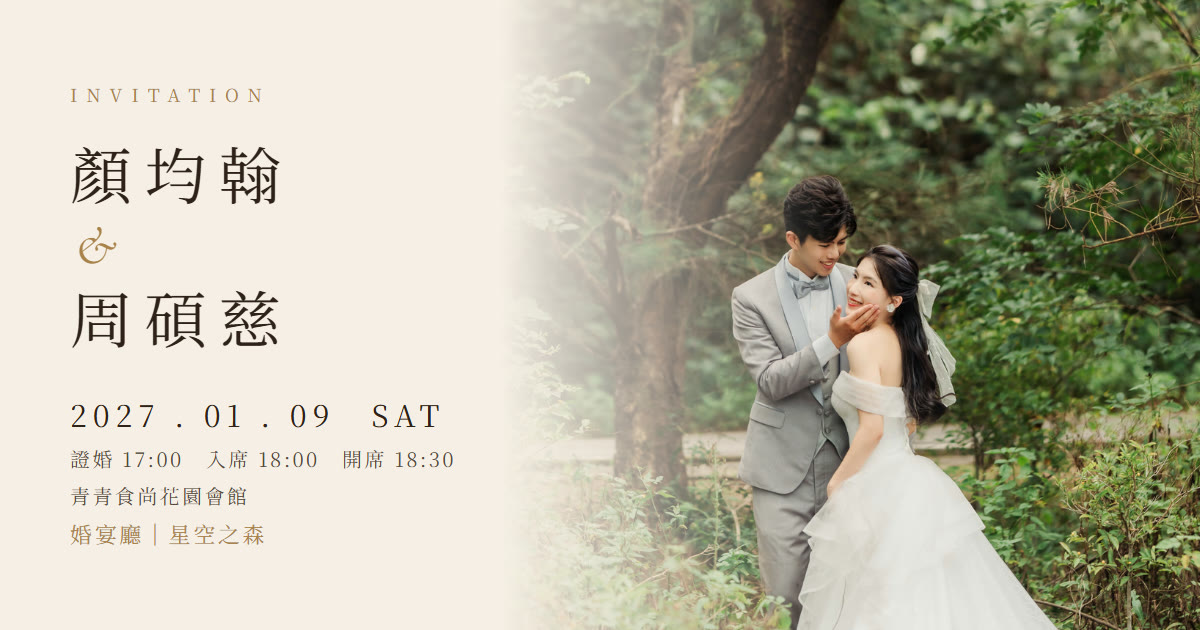
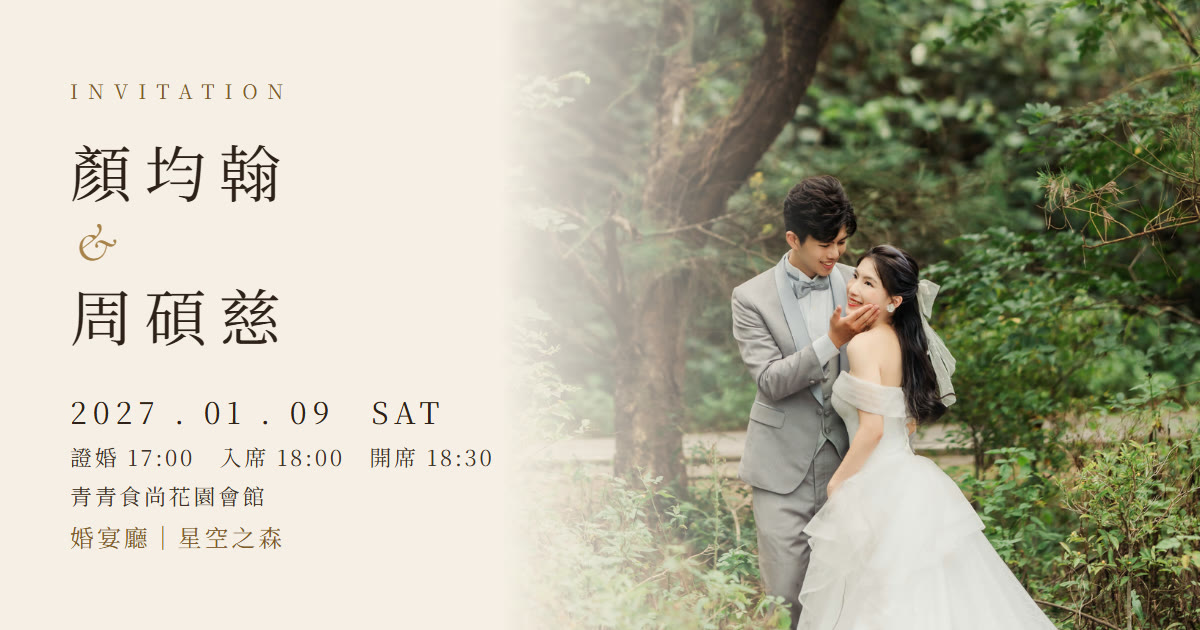
Improve legibility: deeper gold for text, regular weight, stronger opacity, slightly larger small text; darker hero caption gradient; re-render invite images

diff --git a/index.html b/index.html
@@ -22,13 +22,13 @@
 <link href="https://fonts.googleapis.com/css2?family=Cormorant+Garamond:ital,wght@0,400;1,400;1,500&family=Noto+Serif+TC:wght@300;400;500&display=swap" rel="stylesheet">
 <style>
 :root{
-  --bg:#F6EFE6; --ink:#2E2118; --gold:#A9824A; --line:rgba(46,33,24,.18); --soft:#EDE3D5;
+  --bg:#F6EFE6; --ink:#2E2118; --gold:#A9824A; --gold-d:#7F5A28; --line:rgba(46,33,24,.18); --soft:#EDE3D5;
   --serif:"Noto Serif TC","Songti TC","PMingLiU",serif;
   --script:"Cormorant Garamond","Gabriola",Georgia,serif;
 }
 *{box-sizing:border-box;margin:0;padding:0}
 html{scroll-behavior:smooth}
-body{background:var(--bg);color:var(--ink);font-family:var(--serif);font-weight:300;line-height:1.9;-webkit-font-smoothing:antialiased}
+body{background:var(--bg);color:var(--ink);font-family:var(--serif);font-weight:400;line-height:1.9;-webkit-font-smoothing:antialiased}
 .wrap{max-width:560px;margin:0 auto;background:var(--bg);overflow:hidden}
 .script{font-family:var(--script);font-style:italic;font-weight:400}
 
@@ -36,52 +36,52 @@ body{background:var(--bg);color:var(--ink);font-family:var(--serif);font-weight:
 .hero{position:relative;height:min(100svh,880px);min-height:660px;color:var(--ink)}
 .hero img{position:absolute;top:0;left:0;width:100%;height:76%;object-fit:cover;object-position:50% 40%;animation:slow 16s ease-out both}
 .hero::after{content:"";position:absolute;inset:0;background:linear-gradient(to bottom,rgba(246,239,230,0) 42%,rgba(246,239,230,.55) 60%,rgba(246,239,230,.92) 71%,var(--bg) 77%)}
-.hero::before{content:"";position:absolute;z-index:1;top:0;left:0;right:0;height:130px;background:linear-gradient(to bottom,rgba(20,14,8,.38),rgba(20,14,8,0))}
-.hero .top{position:absolute;z-index:2;top:0;left:0;right:0;padding:34px 24px 0;text-align:center;letter-spacing:.36em;font-size:12px;color:#fff;text-shadow:0 1px 10px rgba(0,0,0,.35)}
+.hero::before{content:"";position:absolute;z-index:1;top:0;left:0;right:0;height:150px;background:linear-gradient(to bottom,rgba(20,14,8,.55),rgba(20,14,8,0))}
+.hero .top{position:absolute;z-index:2;top:0;left:0;right:0;padding:34px 24px 0;text-align:center;letter-spacing:.36em;font-size:13px;color:#fff;text-shadow:0 1px 8px rgba(0,0,0,.5)}
 .hero .names{position:absolute;z-index:2;left:0;right:0;bottom:92px;text-align:center;padding:0 20px}
 .hero .names .n{font-size:34px;font-weight:400;letter-spacing:.22em}
 .hero .names .amp{font-size:30px;color:var(--gold);margin:2px 0 4px;display:block}
-.hero .names .d{margin-top:18px;font-size:13px;letter-spacing:.34em;color:var(--gold)}
-.hero .scroll{position:absolute;z-index:2;left:0;right:0;bottom:20px;text-align:center;font-size:13px;letter-spacing:.32em;color:var(--ink);opacity:.8;text-decoration:none}
+.hero .names .d{margin-top:18px;font-size:14px;letter-spacing:.34em;color:var(--gold-d)}
+.hero .scroll{position:absolute;z-index:2;left:0;right:0;bottom:20px;text-align:center;font-size:14px;letter-spacing:.32em;color:var(--ink);opacity:1;text-decoration:none}
 .hero .scroll .arr{display:block;margin:6px auto 0;width:14px;height:14px;border-right:1.5px solid var(--gold);border-bottom:1.5px solid var(--gold);transform:rotate(45deg);animation:bob 1.8s ease-in-out infinite}
 @keyframes slow{from{transform:scale(1.08)}to{transform:scale(1)}}
 @keyframes bob{0%,100%{transform:translateY(0) rotate(45deg);opacity:.5}50%{transform:translateY(7px) rotate(45deg);opacity:1}}
 
 section{padding:68px 28px;text-align:center}
-.eyebrow{font-size:11px;letter-spacing:.42em;color:var(--gold);margin-bottom:14px}
+.eyebrow{font-size:13px;letter-spacing:.42em;color:var(--gold-d);margin-bottom:14px}
 h2{font-size:30px;font-family:var(--script);font-style:italic;font-weight:400;letter-spacing:.02em;line-height:1.25;margin-bottom:22px}
-p{font-size:15px;letter-spacing:.06em}
+p{font-size:16px;letter-spacing:.06em}
 .rule{width:44px;height:1px;background:var(--gold);margin:26px auto;opacity:.7}
 
 /* greeting */
 .greet{font-size:17px;letter-spacing:.14em;margin-bottom:22px}
 .story p+p{margin-top:14px}
-.hl{color:var(--gold)}
+.hl{color:var(--gold-d)}
 
 /* details */
 .card{background:var(--soft);border-radius:2px;padding:34px 22px;margin-top:6px}
 .row{padding:14px 0}
 .row+.row{border-top:1px solid var(--line)}
-.row .k{font-size:11px;letter-spacing:.42em;color:var(--gold)}
+.row .k{font-size:13px;letter-spacing:.42em;color:var(--gold-d)}
 .row .v{font-size:19px;letter-spacing:.1em;font-weight:400;margin-top:2px}
-.hall{margin-top:6px;font-size:14px;color:var(--gold);letter-spacing:.12em}
+.hall{margin-top:6px;font-size:15px;color:var(--gold-d);letter-spacing:.12em}
 .hall b{font-size:22px;font-weight:500;letter-spacing:.24em;margin-left:.1em}
-.row .s{font-size:13px;letter-spacing:.06em;opacity:.78}
+.row .s{font-size:15px;letter-spacing:.06em;opacity:.92;text-wrap:balance}
 .btns{display:flex;gap:10px;justify-content:center;flex-wrap:wrap;margin-top:26px}
-.btn{display:inline-block;padding:12px 22px;border:1px solid var(--ink);color:var(--ink);text-decoration:none;font-size:13px;letter-spacing:.22em;background:transparent;font-family:var(--serif);cursor:pointer}
+.btn{display:inline-block;padding:12px 22px;border:1px solid var(--ink);color:var(--ink);text-decoration:none;font-size:15px;letter-spacing:.16em;background:transparent;font-family:var(--serif);cursor:pointer}
 .btn.fill{background:var(--ink);color:var(--bg)}
 .calpick{flex-basis:100%;display:grid;gap:10px;margin-top:10px;text-align:center}
 .calpick[hidden]{display:none}
-.calpick .cp-t{font-size:13px;letter-spacing:.3em;color:var(--gold)}
+.calpick .cp-t{font-size:14px;letter-spacing:.3em;color:var(--gold-d)}
 .calpick .btn{display:block;padding:14px 12px;line-height:1.5}
-.calpick .btn small{display:block;font-size:11px;letter-spacing:.12em;opacity:.8;margin-top:2px}
-.calhelp{flex-basis:100%;margin-top:6px;font-size:13px;line-height:1.9;opacity:.85;letter-spacing:.04em}
+.calpick .btn small{display:block;font-size:12px;letter-spacing:.12em;opacity:.9;margin-top:2px}
+.calhelp{flex-basis:100%;margin-top:6px;font-size:14px;line-height:1.9;opacity:1;letter-spacing:.04em}
 .calhelp a{color:var(--ink);text-underline-offset:3px;margin:0 4px}
 .calhelp b{font-weight:500}
 .count{display:flex;justify-content:center;gap:12px;margin-top:6px}
 .count div{min-width:60px}
 .count b{display:block;font-family:var(--script);font-size:38px;font-weight:400;line-height:1.1;font-variant-numeric:lining-nums tabular-nums;font-feature-settings:"lnum","tnum"}
-.count span{font-size:10px;letter-spacing:.3em;color:var(--gold)}
+.count span{font-size:12px;letter-spacing:.3em;color:var(--gold-d)}
 
 /* photos */
 .photos{padding:0 0}
@@ -93,62 +93,62 @@ p{font-size:15px;letter-spacing:.06em}
 
 /* notice */
 .notice{border:1px solid var(--gold);padding:22px 20px;margin:0 0 6px;text-align:center}
-.notice .t{font-size:12px;letter-spacing:.4em;color:var(--gold);margin-bottom:6px}
+.notice .t{font-size:13px;letter-spacing:.4em;color:var(--gold-d);margin-bottom:6px}
 .notice .m{font-size:16px;font-weight:400;letter-spacing:.08em;line-height:1.8}
 .notice{text-align:left}
 .notice .t{text-align:center}
 .rd{list-style:none;padding:0;margin:10px 0 12px}
 .rd li{display:flex;gap:12px;align-items:flex-start;margin-bottom:10px;font-size:17px;line-height:30px}
-.rd span{flex:0 0 30px;height:30px;border-radius:50%;background:var(--gold);color:#fff;display:flex;align-items:center;justify-content:center;font-size:15px;line-height:1;margin-top:0}
+.rd span{flex:0 0 30px;height:30px;border-radius:50%;background:var(--gold-d);color:#fff;display:flex;align-items:center;justify-content:center;font-size:15px;line-height:1;margin-top:0}
 .rd b{font-weight:500}
-.notice .m{font-size:14px;line-height:1.85;padding-top:10px;border-top:1px solid rgba(169,130,74,.35)}
+.notice .m{font-size:15px;line-height:1.85;padding-top:10px;border-top:1px solid rgba(169,130,74,.35)}
 
 
 /* transport */
 .tr{text-align:left}
-.alt-note{display:inline-block;margin-top:2px;padding:12px 18px;border:1px solid var(--gold);font-size:15px;line-height:1.8;letter-spacing:.08em;font-weight:400}
-.alt-note a{display:inline-block;margin-top:2px;font-size:13px;color:var(--gold);letter-spacing:.06em;text-decoration:underline;text-underline-offset:3px}
-.tr h3{font-size:16px;font-weight:500;letter-spacing:.2em;margin:34px 0 10px;display:flex;align-items:baseline;gap:10px}
-.tr h3 small{font-family:var(--script);font-style:italic;font-size:15px;color:var(--gold);letter-spacing:.06em}
-.tr ol{padding-left:1.4em;font-size:14px;letter-spacing:.04em}
+.alt-note{display:inline-block;margin-top:2px;padding:12px 18px;border:1px solid var(--gold);font-size:16px;line-height:1.8;letter-spacing:.08em;font-weight:400}
+.alt-note a{display:inline-block;margin-top:2px;font-size:14px;color:var(--gold-d);letter-spacing:.06em;text-decoration:underline;text-underline-offset:3px}
+.tr h3{font-size:17px;font-weight:500;letter-spacing:.2em;margin:34px 0 10px;display:flex;align-items:baseline;gap:10px}
+.tr h3 small{font-family:var(--script);font-style:italic;font-size:16px;color:var(--gold-d);letter-spacing:.06em}
+.tr ol{padding-left:1.4em;font-size:16px;letter-spacing:.04em}
 .tr li{margin-bottom:8px;line-height:1.75}
-.tr p{font-size:14px}
+.tr p{font-size:16px}
 .tr ol.rd{padding-left:0;font-size:17px;letter-spacing:normal}
 .tr .rd li{margin-bottom:10px;line-height:30px}
 .times{display:grid;grid-template-columns:auto 1fr;gap:6px 16px;font-size:14px;margin-top:10px}
-.times b{font-weight:400;color:var(--gold);letter-spacing:.2em}
+.times b{font-weight:400;color:var(--gold-d);letter-spacing:.2em}
 
 .access{background:var(--soft);padding:20px 18px 18px;text-align:left;border-left:4px solid var(--gold)}
-.ac-t{font-size:12px;letter-spacing:.25em;color:var(--gold);margin-bottom:8px;font-weight:500}
+.ac-t{font-size:13px;letter-spacing:.25em;color:var(--gold-d);margin-bottom:8px;font-weight:500}
 .ac-h{font-size:19px;font-weight:500;letter-spacing:.12em;margin-bottom:8px}
 .access p{font-size:17px;line-height:1.85;letter-spacing:.04em}
 .access p+p{margin-top:4px}
 .access b{font-weight:500}
-.pk-warn{margin:4px 0 14px;padding:13px 15px;border-left:4px solid var(--gold);background:#fff8ee;font-size:15px;line-height:1.9;letter-spacing:.04em}
+.pk-warn{margin:4px 0 14px;padding:13px 15px;border-left:4px solid var(--gold);background:#fff8ee;font-size:16px;line-height:1.9;letter-spacing:.04em}
 .pk-warn b{font-weight:600}
 .pk-warn .nw{white-space:nowrap}
 .park .pk-warn{margin:0}
 .park{display:grid;gap:12px;margin-top:4px}
 .pk{background:var(--soft);padding:16px 16px 14px}
 .pk-t{font-size:17px;font-weight:500;letter-spacing:.08em;display:flex;align-items:center;gap:10px;margin-bottom:6px}
-.pk-t i{font-style:normal;font-size:12px;letter-spacing:.3em;padding:2px 10px 2px 13px;border:1px solid var(--gold);color:var(--gold);line-height:1.6}
-.pk-t i.free{background:var(--gold);color:#fff}
-.pk p{font-size:15px;line-height:1.8}
+.pk-t i{font-style:normal;font-size:13px;letter-spacing:.3em;padding:2px 10px 2px 13px;border:1px solid var(--gold);color:var(--gold-d);line-height:1.6}
+.pk-t i.free{background:var(--gold-d);color:#fff}
+.pk p{font-size:16px;line-height:1.8}
 .pk p b{font-weight:500}
 /* shuttle card (large type for elders) */
 .shuttle{background:var(--soft);padding:30px 20px 26px;margin:6px 0 4px;border-top:2px solid var(--gold);text-align:center}
 .sh-t{font-size:24px;font-weight:500;letter-spacing:.2em}
-.sh-t small{font-family:var(--script);font-style:italic;font-weight:400;font-size:18px;color:var(--gold);letter-spacing:.04em;margin-left:8px}
+.sh-t small{font-family:var(--script);font-style:italic;font-weight:400;font-size:18px;color:var(--gold-d);letter-spacing:.04em;margin-left:8px}
 .sh-lead{font-size:18px;line-height:1.8;margin:12px 0 22px}
-.sh-label{font-size:13px;letter-spacing:.4em;color:var(--gold);margin:6px 0 12px}
+.sh-label{font-size:14px;letter-spacing:.4em;color:var(--gold-d);margin:6px 0 12px}
 .sh-times{display:grid;grid-template-columns:1fr 1fr;gap:10px}
 .sh-times div{border:1px solid var(--ink);padding:16px 0;font-size:30px;letter-spacing:.08em;font-weight:400;line-height:1.25;font-variant-numeric:lining-nums tabular-nums;background:var(--bg)}
 .sh-times .rec{border:2px solid var(--gold);background:#fff8ee;position:relative}
-.sh-times em{display:block;font-style:normal;font-size:13px;letter-spacing:.08em;opacity:.7;margin-top:2px;font-family:var(--serif)}
-.sh-small{font-size:13px;opacity:.7}
-.sh-times .rec i{position:absolute;top:-11px;left:50%;transform:translateX(-50%);background:var(--gold);color:#fff;font-style:normal;font-size:12px;letter-spacing:.3em;padding:1px 10px 1px 13px;line-height:1.7;white-space:nowrap}
-.sh-note{font-size:16px;line-height:1.8;margin:14px 0 26px;text-align:left}
-.sh-note b{font-weight:500;color:#7A5A2B}
+.sh-times em{display:block;font-style:normal;font-size:14px;letter-spacing:.08em;opacity:.88;margin-top:2px;font-family:var(--serif)}
+.sh-small{font-size:14px;opacity:.88}
+.sh-times .rec i{position:absolute;top:-11px;left:50%;transform:translateX(-50%);background:var(--gold-d);color:#fff;font-style:normal;font-size:13px;letter-spacing:.3em;padding:1px 10px 1px 13px;line-height:1.7;white-space:nowrap}
+.sh-note{font-size:17px;line-height:1.8;margin:14px 0 26px;text-align:left}
+.sh-note b{font-weight:500;color:var(--gold-d)}
 .sh-steps{list-style:none;padding:0;text-align:left;margin:0}
 .sh-steps li{display:flex;gap:14px;align-items:flex-start;margin-bottom:16px;font-size:18px;line-height:32px}
 .sh-steps span{flex:0 0 32px;height:32px;border-radius:50%;background:var(--ink);color:var(--bg);display:flex;align-items:center;justify-content:center;font-size:17px;line-height:1;margin-top:0}
@@ -156,10 +156,10 @@ p{font-size:15px;letter-spacing:.06em}
 .mapsec{padding-top:30px;padding-bottom:20px}
 .mapimg{display:block;width:100%;height:auto;margin:6px 0 0}
 .mapcap{margin-top:16px;font-size:17px;font-weight:400;letter-spacing:.14em;line-height:1.8}
-.mapcap span{font-size:14px;letter-spacing:.06em;opacity:.8;font-weight:300}
+.mapcap span{font-size:15px;letter-spacing:.06em;opacity:.9;font-weight:400}
 footer{padding:70px 24px 90px;text-align:center}
 footer .script{font-size:30px}
-footer p{margin-top:10px;font-size:13px;letter-spacing:.3em;color:var(--gold)}
+footer p{margin-top:10px;font-size:14px;letter-spacing:.3em;color:var(--gold-d)}
 @media (min-width:700px){.wrap{box-shadow:0 0 60px rgba(46,33,24,.12)} body{background:#e9dfd1}}
 @media (prefers-reduced-motion:reduce){.hero img,.hero .scroll .arr{animation:none}.reveal{opacity:1;transform:none;transition:none}}
 </style>
@@ -265,7 +265,7 @@ footer p{margin-top:10px;font-size:13px;letter-spacing:.3em;color:var(--gold)}
   <div class="eyebrow">MAP</div>
   <h2 style="font-family:var(--serif);font-style:normal;font-weight:400;letter-spacing:.3em;margin-left:.3em;font-size:28px">場地位置</h2>
   <a href="img/venue-map.jpg" target="_blank" rel="noopener"><img class="mapimg" src="img/venue-map.jpg" alt="青青食尚花園會館 位置示意圖：至善路二段 266 巷 32 號"></a>
-  <p style="font-size:12px;letter-spacing:.2em;color:var(--gold);margin-top:8px">點圖可放大　停車位置為示意，請依現場指示</p>
+  <p style="font-size:13px;letter-spacing:.2em;color:var(--gold-d);margin-top:8px">點圖可放大　停車位置為示意，請依現場指示</p>
   <p class="mapcap">青青食尚花園會館<br><span>台北市士林區至善路二段 266 巷 32 號</span></p>
   <div class="btns" style="margin-top:18px">
     <a class="btn fill" target="_blank" rel="noopener" href="https://www.google.com/maps/search/?api=1&query=%E5%A3%AB%E6%9E%97%E9%9D%92%E9%9D%92%E9%A3%9F%E5%B0%9A%E8%8A%B1%E5%9C%92%E6%9C%83%E9%A4%A8">開啟地圖導航</a>

diff --git a/pass.html b/pass.html
@@ -18,15 +18,15 @@ body{background:#2E2118;color:var(--ink);font-family:var(--serif);font-weight:40
 .head{background:var(--ink);color:var(--bg);text-align:center;padding:22px 18px 18px;border-bottom:3px solid var(--gold)}
 .head .en{font-size:12px;letter-spacing:.5em;color:#D9BE8F;margin-bottom:6px}
 .head h1{font-size:26px;font-weight:500;letter-spacing:.3em;margin-left:.3em}
-.head .sub{font-size:13px;letter-spacing:.2em;margin-top:6px;opacity:.85}
+.head .sub{font-size:14px;letter-spacing:.2em;margin-top:6px;opacity:.95}
 .body{padding:22px 22px 6px;text-align:center}
-.lab{font-size:13px;letter-spacing:.4em;color:#8A6532;margin-bottom:6px;font-weight:500}
+.lab{font-size:13px;letter-spacing:.4em;color:#7F5A28;margin-bottom:6px;font-weight:500}
 .rule{height:1px;background:rgba(46,33,24,.18);margin:18px 0}
 .dest{font-size:30px;font-weight:600;letter-spacing:.08em;line-height:1.35}
-.hall{margin-top:6px;font-size:17px;color:#8A6532;letter-spacing:.14em}
+.hall{margin-top:6px;font-size:17px;color:#7F5A28;letter-spacing:.14em}
 .hall b{font-size:24px;font-weight:500;letter-spacing:.26em}
 .addr{margin-top:14px;font-size:19px;font-weight:500;letter-spacing:.02em;line-height:1.6;text-wrap:balance}
-.addr small{display:block;font-size:13px;letter-spacing:.04em;opacity:.8;font-weight:300;margin-top:2px;font-family:Georgia,serif}
+.addr small{display:block;font-size:13px;letter-spacing:.04em;opacity:.9;font-weight:400;margin-top:2px;font-family:Georgia,serif}
 .btns{display:flex;gap:10px;margin-top:16px}
 .btn{flex:1;display:block;padding:15px 8px;border:1.5px solid var(--ink);color:var(--ink);text-decoration:none;font-size:17px;letter-spacing:.16em;background:transparent;font-family:var(--serif);cursor:pointer;text-align:center}
 .btn.fill{background:var(--ink);color:var(--bg)}
@@ -35,7 +35,7 @@ body{background:#2E2118;color:var(--ink);font-family:var(--serif);font-weight:40
 .when>div+div{border-left:1px solid rgba(46,33,24,.18)}
 .when .big{font-size:20px;letter-spacing:.06em;font-weight:500;margin-top:2px}
 .note{margin:18px 22px 0;border:1.5px solid var(--gold);padding:14px 14px;text-align:left;background:#fff8ee}
-.note .t{font-size:13px;letter-spacing:.3em;color:#8A6532;margin-bottom:6px;font-weight:500}
+.note .t{font-size:13px;letter-spacing:.3em;color:#7F5A28;margin-bottom:6px;font-weight:500}
 .note p{font-size:18px;line-height:1.75;font-weight:500;letter-spacing:.04em}
 .note p{text-wrap:balance}
 .note p+p{margin-top:4px}
@@ -47,7 +47,7 @@ body{background:#2E2118;color:var(--ink);font-family:var(--serif);font-weight:40
 .stub::before,.stub::after{content:"";position:absolute;top:-12px;width:22px;height:22px;border-radius:50%;background:#2E2118}
 .stub::before{left:-11px}.stub::after{right:-11px}
 .stub .script{font-family:var(--script);font-style:italic;font-size:26px}
-.stub p{font-size:12px;letter-spacing:.3em;color:var(--gold);margin-top:6px}
+.stub p{font-size:13px;letter-spacing:.3em;color:#7F5A28;margin-top:6px}
 .back{display:flex;align-items:center;gap:8px;min-height:48px;padding:0 6px;margin-bottom:10px;color:#F6EFE6;text-decoration:none;font-size:17px;letter-spacing:.14em;font-family:var(--serif)}
 .back span{font-size:30px;line-height:1;margin-top:-4px}
 .back.bottom{justify-content:center;margin:18px auto 0;border:1.5px solid rgba(246,239,230,.85);width:100%;max-width:260px}
